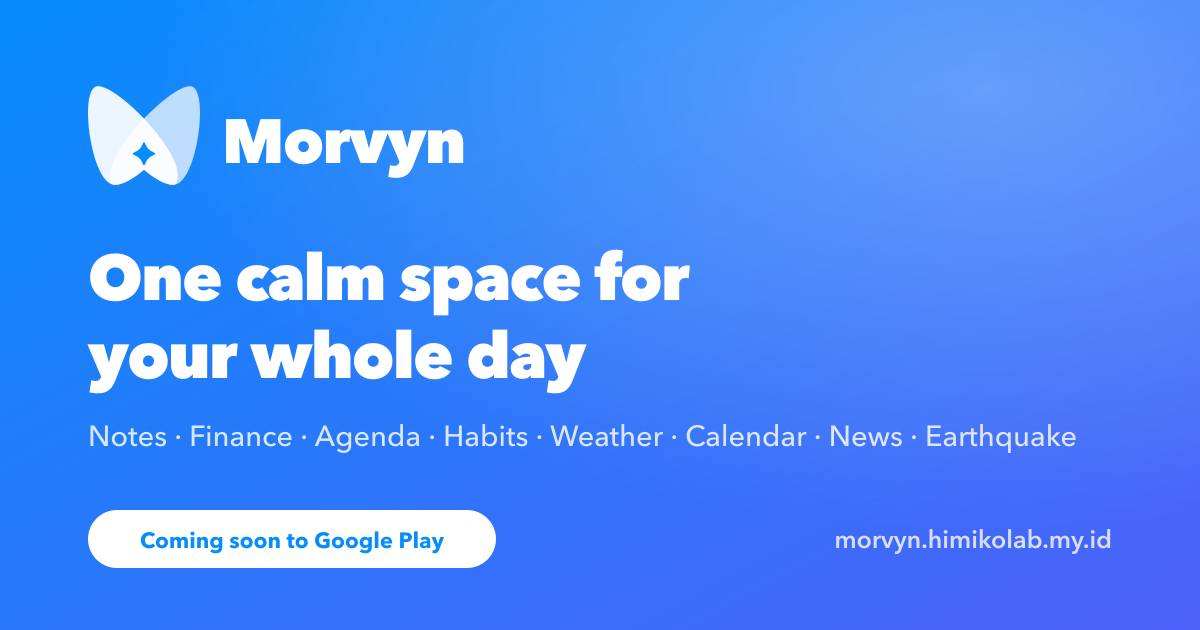
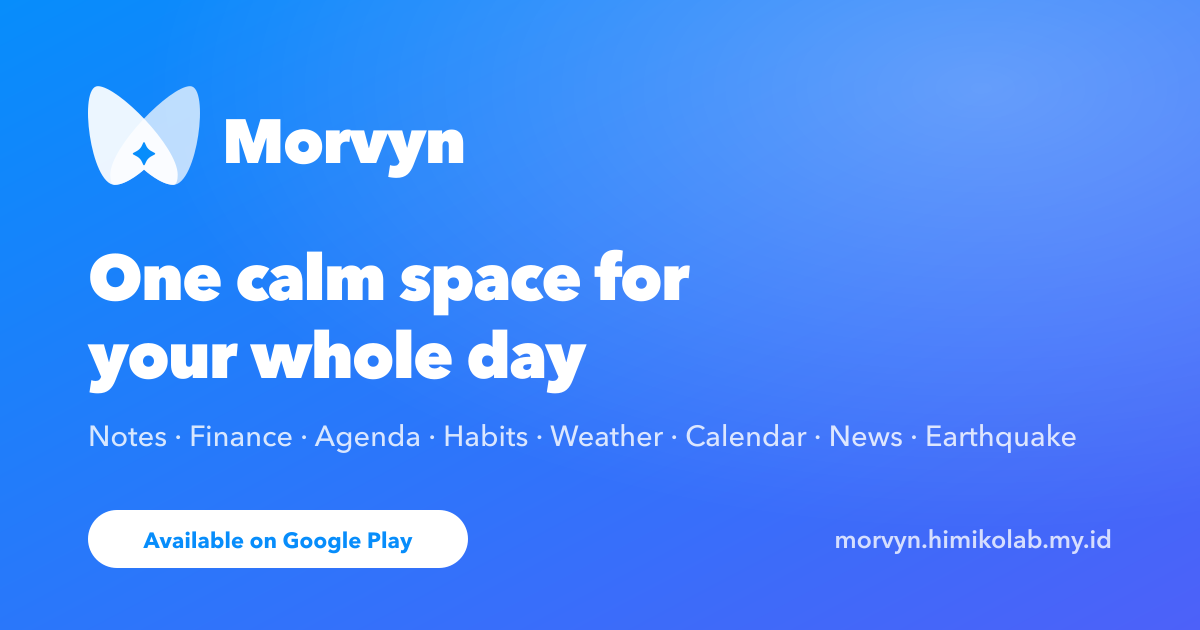
Nyalakan ajakan unduh: Morvyn tersedia di Google Play
- playStoreLive menjadi true, atas keputusan pemilik. Tombol di header,
  hero, blok ajakan, dan footer kini menuju Play Store, tanya jawab
  "Kapan Morvyn bisa diunduh?" tidak lagi disisipkan, dan JSON-LD
  mencetak installUrl, downloadUrl, serta offers.
- Catatan di bawah tombol unduh berganti dari "Versi iOS sedang
  disiapkan" menjadi "Saat ini hanya untuk Android", selaras dengan
  jawaban tanya jawab iPhone.
- Lencana gambar Open Graph berganti dari "Segera di Google Play"
  menjadi "Tersedia di Google Play".
- README: bagian Google Play mencatat sakelar yang sudah menyala, dan
  "gratis sepenuhnya" dicatat sudah dipastikan pemilik.

Catatan: saat commit ini dibuat, alamat Play Store masih membalas 404.
Kalau lama tetap begitu, kembalikan playStoreLive ke false.

Changed region(s): [[0.0925, 0.7841, 0.4317, 0.9048]]

diff --git a/src/content/site.ts b/src/content/site.ts
@@ -13,10 +13,7 @@ export const site = {
    */
   url: "https://morvyn.himikolab.my.id",
 
-  /**
-   * PLACEHOLDER. Ganti dengan URL Play Store yang sebenarnya, bentuknya:
-   * https://play.google.com/store/apps/details?id=com.namapaket.morvyn
-   */
+  /** Alamat Morvyn di Google Play, dari nama paket `com.himikolab.morvyn`. */
   playStoreUrl: "https://play.google.com/store/apps/details?id=com.himikolab.morvyn",
 
   /**
@@ -34,8 +31,11 @@ export const site = {
    *
    * Periksa dulu sebelum menyalakannya:
    *   curl -sI -o /dev/null -w '%{http_code}\n' "$PLAY_STORE_URL"
+   *
+   * Dinyalakan 14 Oktober 2026 atas keputusan pemilik. Saat itu alamatnya
+   * masih membalas 404; kalau lama tetap begitu, kembalikan ke `false`.
    */
-  playStoreLive: false,
+  playStoreLive: true,
 
   /** Kosongkan string ini kalau alamatnya dicabut dan belum ada gantinya. */
   contactEmail: "hi@himikolab.my.id",

diff --git a/src/content/id.ts b/src/content/id.ts
@@ -35,7 +35,7 @@ export const id: Dictionary = {
     body: "Catatan, keuangan, agenda, kebiasaan, cuaca, kalender, berita, dan info gempa. Semuanya ada di Morvyn, dan semuanya bisa saling terhubung.",
     primaryCta: "Unduh di Google Play",
     secondaryCta: "Lihat fiturnya",
-    iosNote: "Versi iOS sedang disiapkan",
+    iosNote: "Saat ini hanya untuk Android",
     mockupAlt: "Tampilan Beranda aplikasi Morvyn",
   },
 
@@ -228,7 +228,7 @@ export const id: Dictionary = {
     title: "Rapikan harimu mulai hari ini",
     body: "Morvyn tersedia gratis di Google Play.",
     button: "Unduh di Google Play",
-    iosNote: "Versi iOS sedang disiapkan",
+    iosNote: "Saat ini hanya untuk Android",
   },
 
   comingSoon: {

diff --git a/src/content/en.ts b/src/content/en.ts
@@ -32,7 +32,7 @@ export const en: Dictionary = {
     body: "Notes, finances, agenda, habits, weather, calendar, news, and earthquake information. All inside Morvyn, and all able to talk to each other.",
     primaryCta: "Get it on Google Play",
     secondaryCta: "See the features",
-    iosNote: "iOS version in the works",
+    iosNote: "Android only for now",
     mockupAlt: "The Morvyn app home screen",
   },
 
@@ -225,7 +225,7 @@ export const en: Dictionary = {
     title: "Start tidying your day today",
     body: "Morvyn is free on Google Play.",
     button: "Get it on Google Play",
-    iosNote: "iOS version in the works",
+    iosNote: "Android only for now",
   },
 
   comingSoon: {

diff --git a/README.md b/README.md
@@ -88,15 +88,18 @@ Simpan screenshot di `public/screenshots/` lalu tambahkan prop `src`:
 Rasio yang diharapkan **9:19.5** (mis. 1080×2340, ukuran layar Android umum).
 Gunakan PNG atau WebP. Begitu `src` diisi, placeholder-nya hilang sendiri.
 
-### 2. Google Play (**wajib saat peluncuran**)
+### 2. Google Play (sakelar sudah dinyalakan)
 
-Aplikasinya belum terbit, dan alamat di `playStoreUrl` masih membalas **404**.
-Karena itu ada sakelar di `src/content/site.ts`:
+Seluruh ajakan mengunduh diatur satu sakelar di `src/content/site.ts`:
 
 ```ts
 playStoreUrl: "https://play.google.com/store/apps/details?id=com.himikolab.morvyn",
-playStoreLive: false,
+playStoreLive: true,
 ```
+
+Sakelar ini dinyalakan pada 14 Oktober 2026 atas keputusan pemilik. **Saat itu
+alamat di `playStoreUrl` masih membalas 404**, jadi periksa lagi dengan
+perintah `curl` di bawah. Kalau lama tetap 404, kembalikan ke `false`.
 
 Selama `playStoreLive: false`, **tidak satu pun tautan ke Play Store dicetak**.
 Yang berubah otomatis:
@@ -110,19 +113,21 @@ Yang berubah otomatis:
 | Tanya jawab | "Kapan Morvyn bisa diunduh?" disisipkan paling atas | tidak disisipkan |
 | JSON-LD | tanpa `offers`, `downloadUrl`, `installUrl` | ketiganya dicetak |
 
-**Saat peluncuran:** ganti `playStoreUrl` dengan URL asli dari Play Console,
-setel `playStoreLive: true`, lalu deploy. Tidak ada teks yang perlu ditulis
-ulang: salinan versi terbit sudah tersimpan utuh di `dict.cta`.
+Kedua salinan tersimpan utuh di kamus (`dict.cta` untuk versi terbit,
+`dict.comingSoon` untuk versi "segera"), jadi berpindah arah cukup dengan
+mengubah sakelarnya lalu deploy. Lencana di gambar Open Graph
+(`design/og-*.svg`) TIDAK ikut sakelar: teksnya diganti dengan tangan, lalu
+PNG-nya dibuat ulang.
 
-Periksa dulu sebelum menyalakannya:
+Periksa alamatnya dengan:
 
 ```bash
 curl -sI -o /dev/null -w '%{http_code}\n' "https://play.google.com/store/apps/details?id=com.himikolab.morvyn"
 ```
 
-Harus `200`. Kalau masih `404`, biarkan sakelarnya `false`: halaman yang
-mengajak mengunduh sesuatu yang belum ada merugikan dua kali, pengunjung
-sampai di halaman kosong dan Google melihat halaman promosi bertombol mati.
+Harus `200`. Selama masih `404`, halaman yang mengajak mengunduh sesuatu yang
+belum bisa dibuka merugikan dua kali: pengunjung sampai di halaman kosong, dan
+Google melihat halaman promosi bertombol mati.
 
 ### 3. Alamat email kontak (sudah diisi)
 
@@ -189,14 +194,15 @@ fakta yang bisa diperiksa: **8** fitur, **29** sumber berita, **2** bahasa.
 Jumlah unduhan dan rating Play Store TIDAK dicantumkan karena angkanya belum
 ada. Kalau nanti mau ditambahkan, ambil dari Play Console, jangan dikarang.
 
-### 6. Dua jawaban FAQ yang perlu Anda pastikan
+### 6. Satu jawaban FAQ yang perlu Anda pastikan
 
-Isi FAQ disusun dari `REMOTE_CONFIG_MORVYN.md` dan keterangan Anda. Dua hal
-berikut belum terkonfirmasi dan sebaiknya diperiksa sebelum tayang:
+Isi FAQ disusun dari `REMOTE_CONFIG_MORVYN.md` dan keterangan Anda. "Morvyn
+tersedia gratis di Google Play" sudah dipastikan pemilik pada 14 Oktober 2026:
+gratis sepenuhnya, tanpa pembelian dalam aplikasi. Satu hal berikut belum
+terkonfirmasi:
 
 | Pertanyaan | Yang perlu dipastikan |
 |---|---|
-| "Morvyn tersedia gratis di Google Play" (blok CTA) | Benarkah gratis sepenuhnya, atau ada pembelian dalam aplikasi? |
 | Fitur mana yang jalan tanpa internet | Belum disinggung di FAQ. Layak ditambahkan kalau Catatan/Agenda/Kebiasaan memang bisa offline. |
 
 ---
